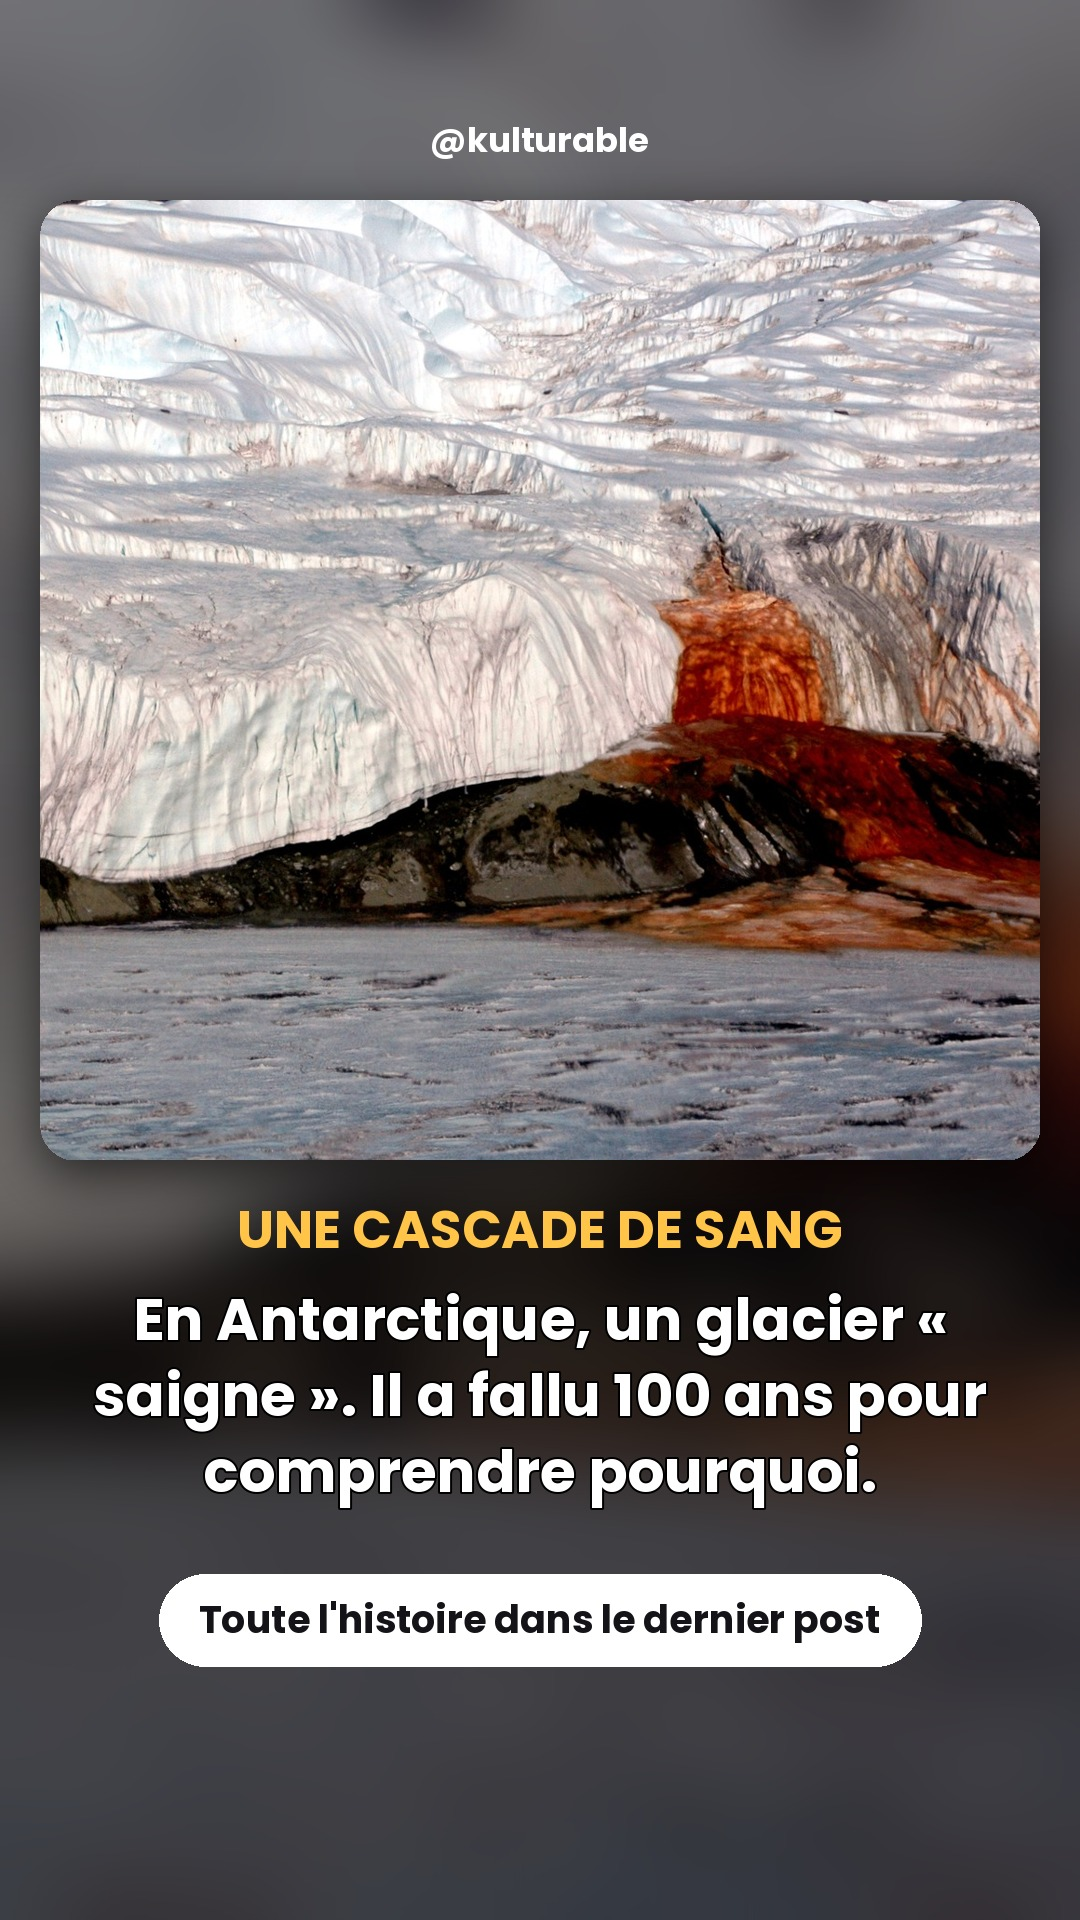
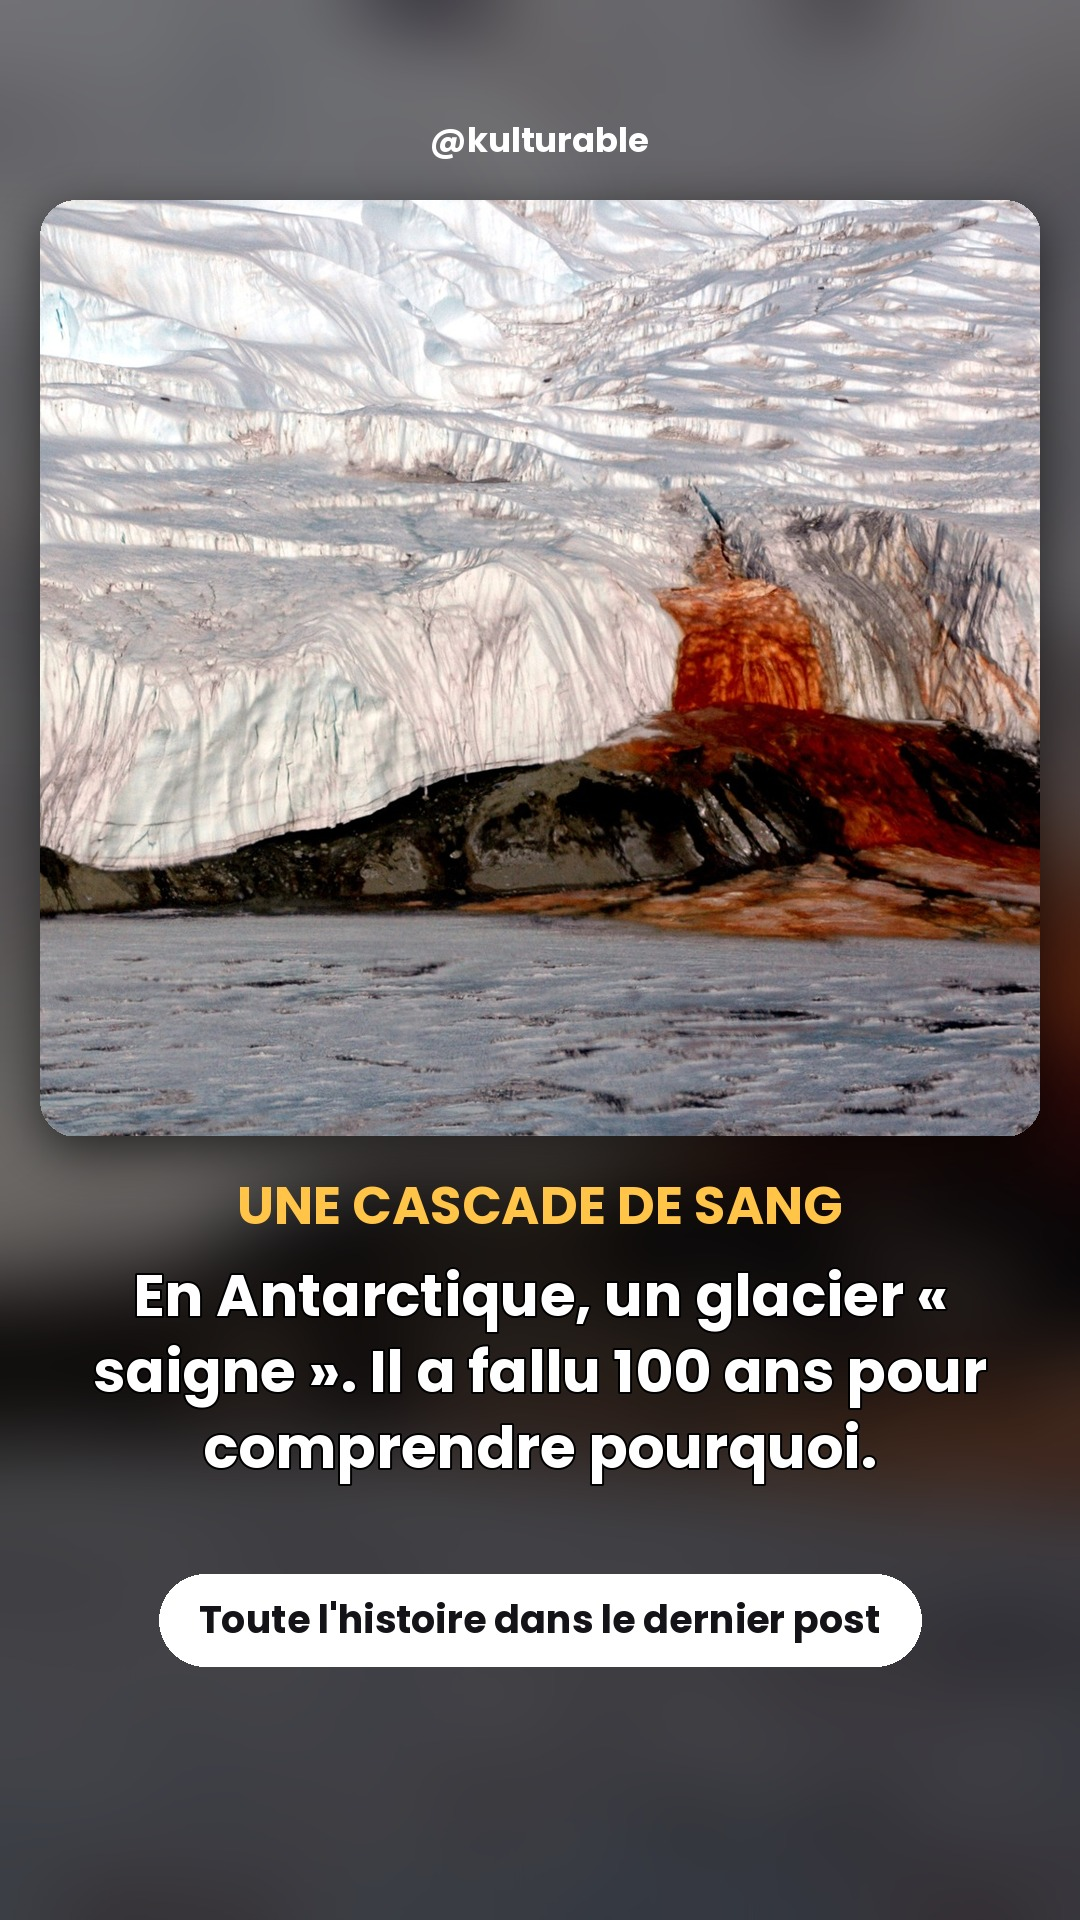
Stories : la photo s'adapte à la longueur du texte
Claude-Session: https://claude.ai/code/session_01NjdoxV1r21Y2w3qmq6Ahkd

Changed region(s): [[0.0306, 0.0938, 0.9778, 0.7812]]

diff --git a/scripts/make_story.py b/scripts/make_story.py
@@ -68,9 +68,19 @@ def make(post_id: str, src: pathlib.Path | None = None) -> pathlib.Path:
     bg = bg.filter(ImageFilter.GaussianBlur(40))
     bg = Image.blend(bg, Image.new("RGB", (W, H), (8, 8, 12)), 0.55)
 
-    # photo nette en haut, pleine largeur, coins arrondis
+    d0 = ImageDraw.Draw(bg)
+    f_brand = ImageFont.truetype(str(FONT), 34)
+    f_title = ImageFont.truetype(str(FONT), 52)
+    f_text = ImageFont.truetype(str(FONT), 58)
+    f_cta = ImageFont.truetype(str(FONT), 38)
+    t_lines = wrap(d0, title, f_title, W - 140)
+    s_lines = wrap(d0, sentence, f_text, W - 140)
+    text_h = len(t_lines) * 66 + 24 + len(s_lines) * 76
+
+    # photo nette en haut, pleine largeur, coins arrondis ; sa hauteur s'adapte au texte
     pw = W - 80
-    ph = 960  # cadrage vertical, la photo est recadrée au centre si besoin
+    cy = H - 300  # bouton hors de la zone couverte par la barre de réponse
+    ph = max(600, min(960, (cy - 46 - 50) - 200 - 70 - text_h))
     ps = max(pw / photo.width, ph / photo.height)
     p = photo.resize((int(photo.width * ps) + 1, int(photo.height * ps) + 1))
     p = p.crop(((p.width - pw) // 2, (p.height - ph) // 2, (p.width - pw) // 2 + pw, (p.height - ph) // 2 + ph))
@@ -83,19 +93,15 @@ def make(post_id: str, src: pathlib.Path | None = None) -> pathlib.Path:
     bg.paste(p, (40, py), mask)
 
     d = ImageDraw.Draw(bg)
-    f_brand = ImageFont.truetype(str(FONT), 34)
-    f_title = ImageFont.truetype(str(FONT), 52)
-    f_text = ImageFont.truetype(str(FONT), 58)
-    f_cta = ImageFont.truetype(str(FONT), 38)
 
     d.text((W // 2, 140), "@kulturable", font=f_brand, fill=(255, 255, 255), anchor="mm")
 
     y = py + ph + 70
-    for line in wrap(d, title, f_title, W - 140):
+    for line in t_lines:
         d.text((W // 2, y), line, font=f_title, fill=ACCENT, anchor="mm")
         y += 66
     y += 24
-    for line in wrap(d, sentence, f_text, W - 140):
+    for line in s_lines:
         d.text((W // 2, y), line, font=f_text, fill=(255, 255, 255), anchor="mm",
                stroke_width=2, stroke_fill=(0, 0, 0))
         y += 76
@@ -103,7 +109,6 @@ def make(post_id: str, src: pathlib.Path | None = None) -> pathlib.Path:
     # renvoi vers le post
     cta = "Toute l'histoire dans le dernier post"
     tw = d.textlength(cta, font=f_cta)
-    cy = H - 300  # hors de la zone couverte par la barre de réponse
     d.rounded_rectangle((W // 2 - tw / 2 - 40, cy - 46, W // 2 + tw / 2 + 40, cy + 46), 46, fill=(255, 255, 255))
     d.text((W // 2, cy), cta, font=f_cta, fill=(20, 20, 24), anchor="mm")
 
